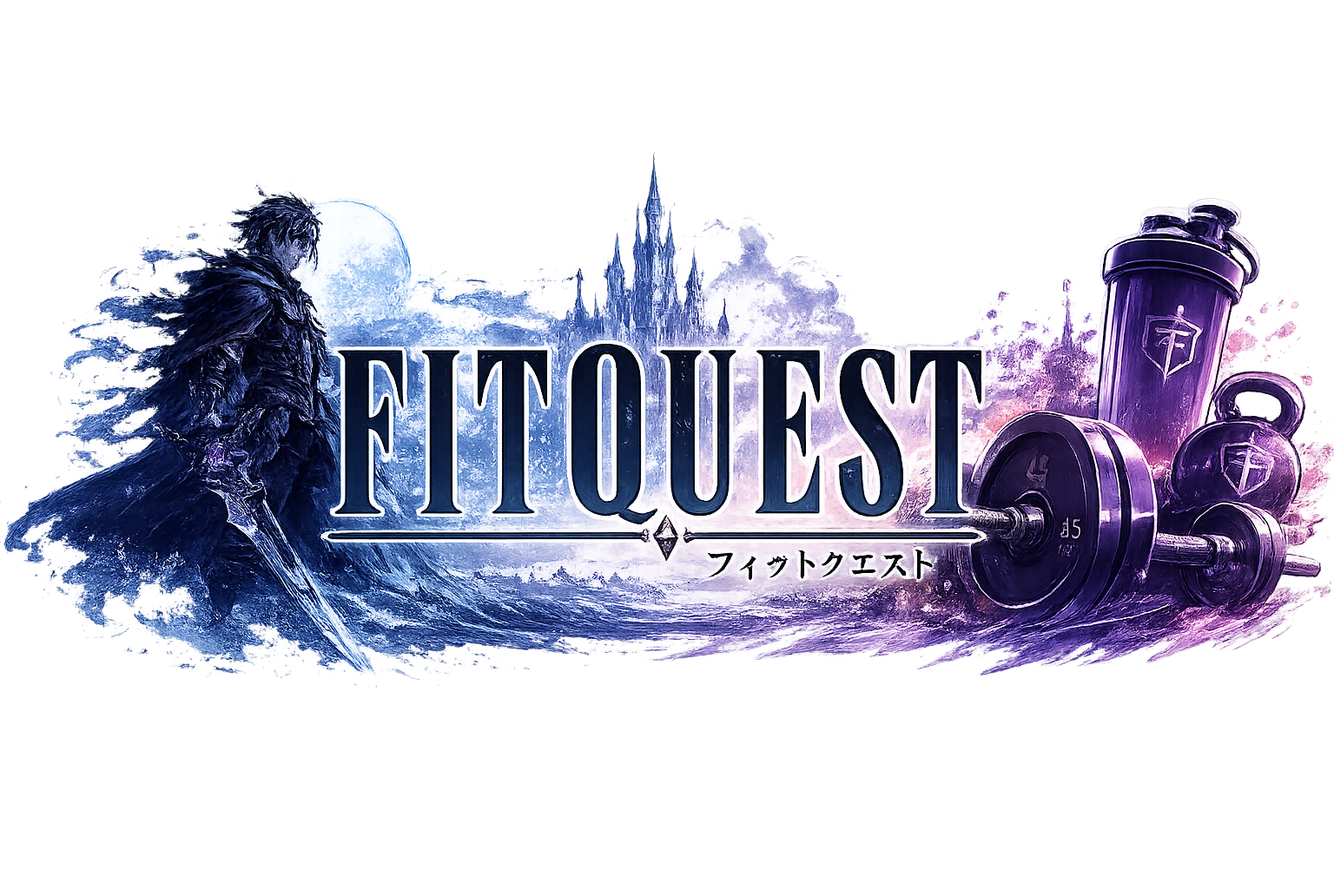
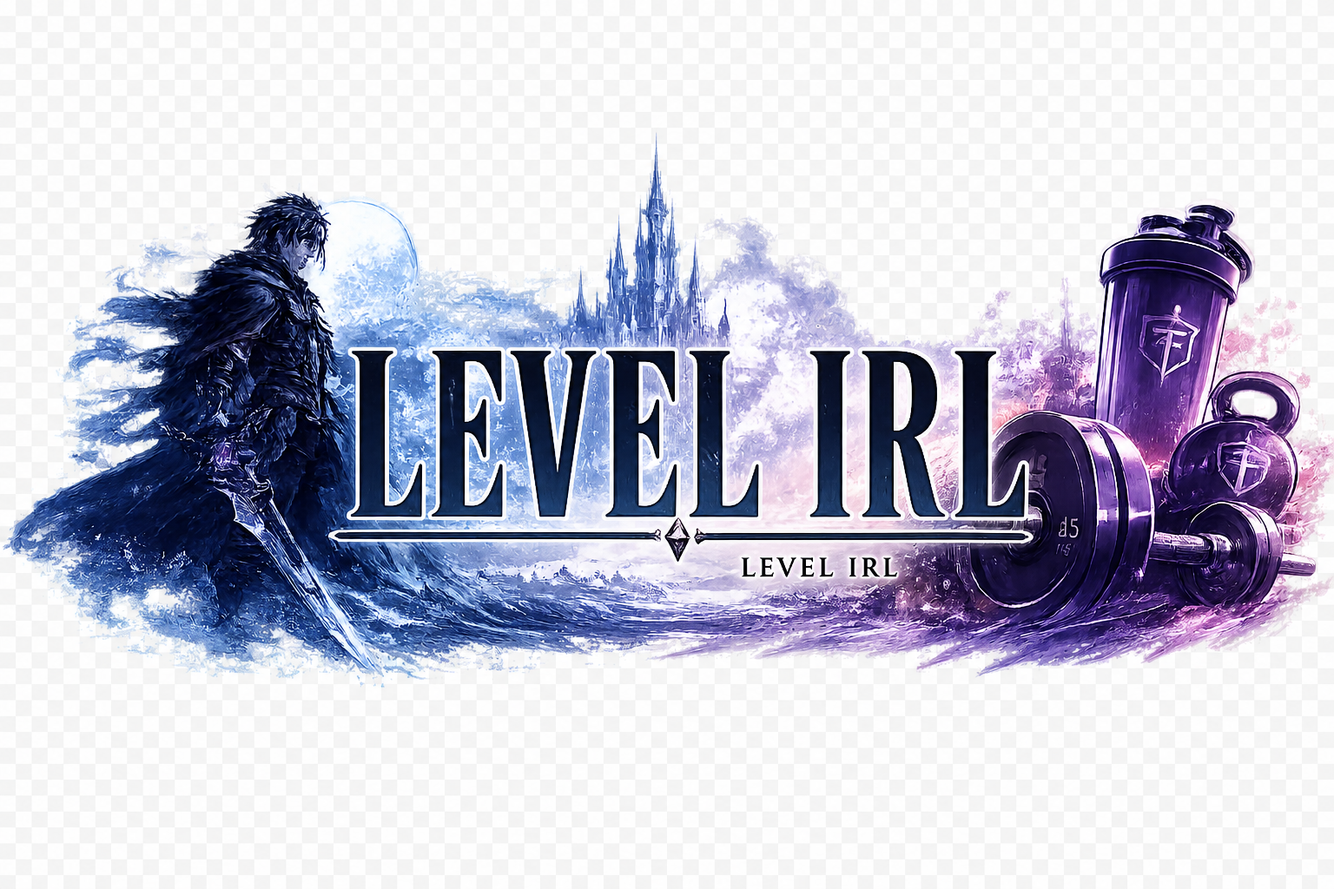
Rename FitQuest to LEVEL IRL

Changed region(s): [[0.0, 0.1875, 1.0, 0.7812]]

diff --git a/src/account.js b/src/account.js
@@ -12,16 +12,16 @@ function styles(){if($('#fitquestAccountStyles'))return;const s=document.createE
 function toolbar(){const a=$('.header-actions');if(!a)return;if(!$('#fitquestSyncChip')){const c=document.createElement('button');c.id='fitquestSyncChip';c.type='button';c.className='sync-chip';c.textContent='☁ Cloud';a.insertBefore(c,$('#logoutBtn')||$('#levelChip')||null);}if(!$('#accountBtn')){const b=document.createElement('button');b.id='accountBtn';b.type='button';b.className='account-toolbar-button';b.textContent='👤 Account';a.insertBefore(b,$('#logoutBtn')||$('#levelChip')||null);b.addEventListener('click',openAccount);}}
 function forgot(){if($('#forgotPasswordBtn')||!$('#loginForm'))return;const b=document.createElement('button');b.id='forgotPasswordBtn';b.type='button';b.className='forgot-link';b.textContent='Forgot password?';const submit=$('#loginForm .auth-submit');submit?submit.insertAdjacentElement('afterend',b):$('#loginForm').appendChild(b);b.addEventListener('click',requestReset);}
 
-function dialogs(){if(!$('#accountDialog')){const d=document.createElement('dialog');d.id='accountDialog';d.innerHTML=`<div class="account-dialog-body"><div class="account-dialog-head"><div><p class="eyebrow">PLAYER ACCOUNT · CLOUD IDENTITY</p><h3>Account & Security</h3></div><button type="button" class="icon-btn" id="accountCloseBtn">×</button></div><section class="account-section"><h4>Profile</h4><div><div class="account-email" id="accountEmail">—</div><div class="account-row" style="margin-top:8px"><span class="account-badge" id="verificationBadge">Email status</span><button class="ghost mini" id="sendVerificationBtn" type="button">Send verification email</button></div></div><label>Display name<input id="accountDisplayName" maxlength="60" placeholder="Your adventurer name"></label><button class="primary compact" id="saveAccountProfileBtn" type="button">Save Account Profile</button><p class="account-message" id="accountProfileMessage"></p></section><section class="account-section"><h4>Change Password</h4><label>Current password<input id="accountCurrentPassword" type="password" autocomplete="current-password"></label><label>New password<input id="accountNewPassword" type="password" minlength="10" autocomplete="new-password" placeholder="At least 10 characters"></label><button class="ghost" id="changeAccountPasswordBtn" type="button">Change Password</button><p class="account-message" id="accountPasswordMessage"></p></section><section class="account-section danger-account"><h4>Delete Account</h4><p class="account-message">Permanently removes the account and its FitQuest cloud save.</p><button class="ghost" id="deleteAccountBtn" type="button">Delete My Account</button></section></div>`;document.body.appendChild(d);$('#accountCloseBtn').onclick=()=>d.close();d.addEventListener('click',e=>{if(e.target===d)d.close();});$('#saveAccountProfileBtn').onclick=saveProfile;$('#sendVerificationBtn').onclick=verifyEmail;$('#changeAccountPasswordBtn').onclick=changePassword;$('#deleteAccountBtn').onclick=deleteAccount;}
+function dialogs(){if(!$('#accountDialog')){const d=document.createElement('dialog');d.id='accountDialog';d.innerHTML=`<div class="account-dialog-body"><div class="account-dialog-head"><div><p class="eyebrow">PLAYER ACCOUNT · CLOUD IDENTITY</p><h3>Account & Security</h3></div><button type="button" class="icon-btn" id="accountCloseBtn">×</button></div><section class="account-section"><h4>Profile</h4><div><div class="account-email" id="accountEmail">—</div><div class="account-row" style="margin-top:8px"><span class="account-badge" id="verificationBadge">Email status</span><button class="ghost mini" id="sendVerificationBtn" type="button">Send verification email</button></div></div><label>Display name<input id="accountDisplayName" maxlength="60" placeholder="Your adventurer name"></label><button class="primary compact" id="saveAccountProfileBtn" type="button">Save Account Profile</button><p class="account-message" id="accountProfileMessage"></p></section><section class="account-section"><h4>Change Password</h4><label>Current password<input id="accountCurrentPassword" type="password" autocomplete="current-password"></label><label>New password<input id="accountNewPassword" type="password" minlength="10" autocomplete="new-password" placeholder="At least 10 characters"></label><button class="ghost" id="changeAccountPasswordBtn" type="button">Change Password</button><p class="account-message" id="accountPasswordMessage"></p></section><section class="account-section danger-account"><h4>Delete Account</h4><p class="account-message">Permanently removes the account and its LEVEL IRL cloud save.</p><button class="ghost" id="deleteAccountBtn" type="button">Delete My Account</button></section></div>`;document.body.appendChild(d);$('#accountCloseBtn').onclick=()=>d.close();d.addEventListener('click',e=>{if(e.target===d)d.close();});$('#saveAccountProfileBtn').onclick=saveProfile;$('#sendVerificationBtn').onclick=verifyEmail;$('#changeAccountPasswordBtn').onclick=changePassword;$('#deleteAccountBtn').onclick=deleteAccount;}
 if(!$('#resetPasswordDialog')){const d=document.createElement('dialog');d.id='resetPasswordDialog';d.innerHTML=`<div class="account-dialog-body"><div class="account-dialog-head"><div><p class="eyebrow">ACCOUNT RECOVERY</p><h3>Choose a New Password</h3></div><button type="button" class="icon-btn" id="resetCloseBtn">×</button></div><section class="account-section"><label>New password<input id="resetNewPassword" type="password" minlength="10" autocomplete="new-password" placeholder="At least 10 characters"></label><button class="primary compact" id="finishResetBtn" type="button">Reset Password</button><p class="account-message" id="resetPasswordMessage"></p></section></div>`;document.body.appendChild(d);$('#resetCloseBtn').onclick=()=>d.close();$('#finishResetBtn').onclick=finishReset;}}
 
 async function openAccount(){const d=$('#accountDialog');d.showModal();msg('#accountProfileMessage','Loading account…');try{const r=await api('/api/account');const a=r.account;$('#accountEmail').textContent=a.email;$('#accountDisplayName').value=a.display_name||'';const v=!!a.email_verified_at,b=$('#verificationBadge');b.textContent=v?'✓ Email verified':'Email not verified';b.classList.toggle('verified',v);$('#sendVerificationBtn').hidden=v;msg('#accountProfileMessage',v?'Account is connected to your cloud save.':'Verify your email to strengthen account recovery.');}catch(e){msg('#accountProfileMessage',e.message,'error');}}
 async function saveProfile(){msg('#accountProfileMessage','Saving…');try{await api('/api/account',{method:'PUT',body:JSON.stringify({display_name:$('#accountDisplayName').value.trim()})});msg('#accountProfileMessage','Account profile saved.','success');}catch(e){msg('#accountProfileMessage',e.message,'error');}}
 async function verifyEmail(){const b=$('#sendVerificationBtn');b.disabled=true;msg('#accountProfileMessage','Sending verification email…');try{const r=await api('/api/auth/verification/request',{method:'POST'});if(r.already_verified){b.hidden=true;msg('#accountProfileMessage','Email is already verified.','success');}else if(r.delivered)msg('#accountProfileMessage','Verification email sent. Check your inbox.','success');else msg('#accountProfileMessage',r.delivery_error||'Email delivery is not configured yet.','error');}catch(e){msg('#accountProfileMessage',e.message,'error');}finally{b.disabled=false;}}
 async function changePassword(){msg('#accountPasswordMessage','Updating password…');try{await api('/api/account/password',{method:'POST',body:JSON.stringify({current_password:$('#accountCurrentPassword').value,new_password:$('#accountNewPassword').value})});$('#accountCurrentPassword').value='';$('#accountNewPassword').value='';msg('#accountPasswordMessage','Password changed. Your current device remains signed in.','success');}catch(e){msg('#accountPasswordMessage',e.message,'error');}}
-async function deleteAccount(){if(!confirm('Permanently delete this FitQuest account and its cloud save? This cannot be undone.'))return;if(prompt('Type DELETE to confirm.')!=='DELETE')return;try{await api('/api/account',{method:'DELETE'});location.reload();}catch(e){alert(e.message);}}
-async function requestReset(){let email=$('#loginEmail')?.value?.trim()||'';if(!email)email=(prompt('Enter the email address for your FitQuest account:')||'').trim();if(!email)return;const b=$('#forgotPasswordBtn'),old=b.textContent;b.disabled=true;b.textContent='Sending…';try{const r=await api('/api/auth/password/forgot',{method:'POST',body:JSON.stringify({email})});alert(r.delivered===false?(r.delivery_error||r.message):r.message);}catch(e){alert(e.message);}finally{b.disabled=false;b.textContent=old;}}
-async function confirmVerify(token){try{await api('/api/auth/verification/confirm',{method:'POST',body:JSON.stringify({token})});alert('Your FitQuest email is verified.');}catch(e){alert(e.message);}const u=new URL(location.href);u.searchParams.delete('verify');history.replaceState({},'',u);}
+async function deleteAccount(){if(!confirm('Permanently delete this LEVEL IRL account and its cloud save? This cannot be undone.'))return;if(prompt('Type DELETE to confirm.')!=='DELETE')return;try{await api('/api/account',{method:'DELETE'});location.reload();}catch(e){alert(e.message);}}
+async function requestReset(){let email=$('#loginEmail')?.value?.trim()||'';if(!email)email=(prompt('Enter the email address for your LEVEL IRL account:')||'').trim();if(!email)return;const b=$('#forgotPasswordBtn'),old=b.textContent;b.disabled=true;b.textContent='Sending…';try{const r=await api('/api/auth/password/forgot',{method:'POST',body:JSON.stringify({email})});alert(r.delivered===false?(r.delivery_error||r.message):r.message);}catch(e){alert(e.message);}finally{b.disabled=false;b.textContent=old;}}
+async function confirmVerify(token){try{await api('/api/auth/verification/confirm',{method:'POST',body:JSON.stringify({token})});alert('Your LEVEL IRL email is verified.');}catch(e){alert(e.message);}const u=new URL(location.href);u.searchParams.delete('verify');history.replaceState({},'',u);}
 async function finishReset(){const token=new URL(location.href).searchParams.get('reset');msg('#resetPasswordMessage','Resetting password…');try{await api('/api/auth/password/reset',{method:'POST',body:JSON.stringify({token,new_password:$('#resetNewPassword').value})});msg('#resetPasswordMessage','Password reset. You can sign in with the new password.','success');const u=new URL(location.href);u.searchParams.delete('reset');history.replaceState({},'',u);setTimeout(()=>location.reload(),1200);}catch(e){msg('#resetPasswordMessage',e.message,'error');}}
 
 function syncUI(e){const c=$('#fitquestSyncChip');if(!c)return;const s=e.detail?.status,map={saving:['☁ Saving…','saving'],loading:['☁ Loading…','loading'],synced:['☁ Synced','synced'],error:['☁ Sync error','error'],'signed-out':['Signed out','idle']};if(map[s]){c.textContent=map[s][0];c.dataset.state=map[s][1];c.onclick=null;}}

diff --git a/src/history.js b/src/history.js
@@ -23,7 +23,7 @@ function installUI(){
     <p class="muted history-help">Every set, rep, weight and cardio session is saved here. Move records between dates or download a recovery backup anytime.</p>
     <div id="historyList" class="history-list"><div class="empty-state">Loading cloud history…</div></div>`;
   chronicle.parentNode.insertBefore(section,chronicle);
-  const dialog=document.createElement('dialog');dialog.id='moveExerciseDialog';dialog.innerHTML=`<form id="moveExerciseForm"><div class="dialog-head"><div><p class="eyebrow">FIELD TRANSFER</p><h3>Move Exercise</h3></div><button type="button" class="icon-btn" id="moveExerciseClose" aria-label="Close">×</button></div><p class="muted" id="moveExerciseLabel"></p><input type="hidden" id="moveSourceWorkoutId"><input type="hidden" id="moveExerciseIndex"><label>Move to date<input id="moveExerciseDate" type="date" required></label><button class="primary" type="submit">Transfer Exercise</button><p class="dialog-tip">If that date has no adventure yet, FitQuest creates one automatically.</p></form>`;document.body.appendChild(dialog);
+  const dialog=document.createElement('dialog');dialog.id='moveExerciseDialog';dialog.innerHTML=`<form id="moveExerciseForm"><div class="dialog-head"><div><p class="eyebrow">FIELD TRANSFER</p><h3>Move Exercise</h3></div><button type="button" class="icon-btn" id="moveExerciseClose" aria-label="Close">×</button></div><p class="muted" id="moveExerciseLabel"></p><input type="hidden" id="moveSourceWorkoutId"><input type="hidden" id="moveExerciseIndex"><label>Move to date<input id="moveExerciseDate" type="date" required></label><button class="primary" type="submit">Transfer Exercise</button><p class="dialog-tip">If that date has no adventure yet, LEVEL IRL creates one automatically.</p></form>`;document.body.appendChild(dialog);
   document.getElementById('moveExerciseClose').addEventListener('click',()=>dialog.close());dialog.addEventListener('click',e=>{if(e.target===dialog)dialog.close();});document.getElementById('moveExerciseForm').addEventListener('submit',moveExercise);document.getElementById('historyBackupBtn').addEventListener('click',exportBackup);void renderHistory();
 }
 
@@ -39,6 +39,6 @@ async function changeWorkoutDate(id){const data=await load(),source=(data?.worko
 async function openMoveExercise(id,index){const data=await load(),w=(data?.workouts||[]).find(x=>x.id===id),e=w?.exercises?.[index];if(!w||!e)return;document.getElementById('moveSourceWorkoutId').value=id;document.getElementById('moveExerciseIndex').value=String(index);document.getElementById('moveExerciseDate').value=w.date||localDateISO();document.getElementById('moveExerciseLabel').textContent=`${e.name} · currently ${w.date}`;document.getElementById('moveExerciseDialog').showModal();}
 async function moveExercise(ev){ev.preventDefault();const data=await load(),id=document.getElementById('moveSourceWorkoutId').value,index=Number(document.getElementById('moveExerciseIndex').value),targetDate=document.getElementById('moveExerciseDate').value,source=(data?.workouts||[]).find(w=>w.id===id);if(!source||!targetDate||!source.exercises?.[index])return;if(targetDate===source.date){toast('📅 That exercise is already on that date.');return;}const [exercise]=source.exercises.splice(index,1),target=ensureTargetWorkout(data,targetDate);target.exercises||=[];target.exercises.push({...exercise,movedFromDate:source.date,movedAt:new Date().toISOString()});sortWorkouts(data);await save(data);document.getElementById('moveExerciseDialog').close();toast(`↪ ${exercise.name} moved to ${targetDate}.`);setTimeout(()=>location.reload(),350);}
 async function deleteEmptyWorkout(id){const data=await load(),w=(data?.workouts||[]).find(x=>x.id===id);if(!w||(w.exercises||[]).length)return;data.workouts=data.workouts.filter(x=>x.id!==id);await save(data);toast('🧹 Empty adventure record removed.');setTimeout(()=>location.reload(),350);}
-async function exportBackup(){const data=await load();if(!data){toast('No FitQuest cloud save found to back up.');return;}const blob=new Blob([JSON.stringify(data,null,2)],{type:'application/json'}),url=URL.createObjectURL(blob),a=document.createElement('a');a.href=url;a.download=`fitquest-backup-${localDateISO()}.json`;document.body.appendChild(a);a.click();a.remove();setTimeout(()=>URL.revokeObjectURL(url),1000);toast('⬇ FitQuest cloud backup exported.');}
+async function exportBackup(){const data=await load();if(!data){toast('No LEVEL IRL cloud save found to back up.');return;}const blob=new Blob([JSON.stringify(data,null,2)],{type:'application/json'}),url=URL.createObjectURL(blob),a=document.createElement('a');a.href=url;a.download=`level-irl-backup-${localDateISO()}.json`;document.body.appendChild(a);a.click();a.remove();setTimeout(()=>URL.revokeObjectURL(url),1000);toast('⬇ LEVEL IRL cloud backup exported.');}
 
 if(document.readyState==='loading')document.addEventListener('DOMContentLoaded',installUI,{once:true});else installUI();

diff --git a/index.html b/index.html
@@ -10,8 +10,17 @@
 
   <meta name="theme-color" content="#0b1020" />
   <meta name="apple-mobile-web-app-capable" content="yes" />
+  <meta name="apple-mobile-web-app-title" content="LEVEL IRL" />
+  <meta name="application-name" content="LEVEL IRL" />
+  <meta name="description" content="LEVEL IRL is a mobile-first fitness RPG for workouts, progression, achievements, and healthy habits." />
+  <meta property="og:title" content="LEVEL IRL — Your Fitness RPG" />
+  <meta property="og:description" content="Turn real-world fitness into RPG progression with LEVEL IRL." />
+  <meta property="og:type" content="website" />
+  <meta name="twitter:card" content="summary" />
+  <meta name="twitter:title" content="LEVEL IRL — Your Fitness RPG" />
+  <meta name="twitter:description" content="Turn real-world fitness into RPG progression with LEVEL IRL." />
 
-  <title>FitQuest — Your Fitness RPG</title>
+  <title>LEVEL IRL — Your Fitness RPG</title>
 
   <style>
     [hidden] {
@@ -257,7 +266,7 @@
 
         <p class="eyebrow">FITNESS RPG · CAMPAIGN I</p>
 
-        <h1>FitQuest</h1>
+        <h1>LEVEL IRL</h1>
 
         <p>
           Your training is the campaign.
@@ -295,7 +304,7 @@
           <h2>Welcome Back</h2>
 
           <p>
-            Continue your FitQuest campaign.
+            Continue your LEVEL IRL campaign.
           </p>
 
           <form id="loginForm" class="auth-form">
@@ -325,7 +334,7 @@
             </label>
 
             <button class="auth-submit" type="submit">
-              Enter FitQuest
+              Enter LEVEL IRL
             </button>
 
             <p
@@ -350,7 +359,7 @@
           <h2>Begin Your Campaign</h2>
 
           <p>
-            Create your account and keep your FitQuest progress
+            Create your account and keep your LEVEL IRL progress
             securely in the cloud.
           </p>
 
@@ -396,7 +405,7 @@
         </section>
 
         <p class="auth-footer">
-          Your FitQuest data will be tied to your account
+          Your LEVEL IRL data will be tied to your account
           instead of only this browser.
         </p>
 
@@ -406,7 +415,7 @@
 
 
   <!-- =========================================================
-       MAIN FITQUEST APPLICATION
+       MAIN LEVEL IRL APPLICATION
        ========================================================= -->
 
   <div id="appRoot" hidden>
@@ -425,7 +434,7 @@
           </p>
 
           <h1>
-            FitQuest
+            LEVEL IRL
             <span class="beta">v0.5 · Vite</span>
           </h1>
 
@@ -1897,7 +1906,7 @@
           );
         } else {
           setVerificationBanner(
-            'Verify your email to strengthen account recovery and confirm ownership of this FitQuest account.'
+            'Verify your email to strengthen account recovery and confirm ownership of this LEVEL IRL account.'
           );
         }
 
@@ -2148,7 +2157,7 @@
             'auth-message error';
 
           signupMessage.textContent =
-            'Unable to reach FitQuest. Try again.';
+            'Unable to reach LEVEL IRL. Try again.';
         }
       }
     );
@@ -2248,7 +2257,7 @@
             'auth-message error';
 
           loginMessage.textContent =
-            'Unable to reach FitQuest. Try again.';
+            'Unable to reach LEVEL IRL. Try again.';
         }
       }
     );
@@ -2335,7 +2344,7 @@
           logoutBtn.textContent = 'Sign Out';
 
           alert(
-            'FitQuest could not sign you out. Please try again.'
+            'LEVEL IRL could not sign you out. Please try again.'
           );
         }
       }
@@ -2375,7 +2384,7 @@
 
 
   <!-- =========================================================
-       FITQUEST APPLICATION SCRIPTS
+       LEVEL IRL APPLICATION SCRIPTS
        ========================================================= -->
 
   <script

diff --git a/src/rpgExpansion.js b/src/rpgExpansion.js
@@ -18,5 +18,5 @@ async function render(){ const data=await read();if(!data)return; const date=loc
  const home=$('#fitquestScreenGrid-home'); if(home){let q=$('#fqQuestBoard');if(!q){q=document.createElement('section');q.id='fqQuestBoard';q.className='fq-rpg-card';home.appendChild(q);}q.innerHTML=`<div class="fq-rpg-head"><div><p>DAILY QUEST BOARD</p><h3>Choose Your Side Quests</h3></div><span class="fq-rpg-chip">Optional</span></div><div class="fq-quest-grid">${board.quests.map(x=>`<div class="fq-quest"><span>${x.icon}</span><div><strong>${x.name}</strong><div style="font-size:10px;color:#8995ad">${x.current||0} / ${x.target} ${x.unit}</div></div><button data-fq-quest="${x.id}">${x.completed?'✓ Done':x.selected?'Selected':'Select'}</button></div>`).join('')}</div>`;q.querySelectorAll('[data-fq-quest]').forEach(b=>b.onclick=async()=>{await mutate(d=>{selectQuest(d,b.dataset.fqQuest,date);updateQuestBoard(d,date);return true;});render();}); }
  const enc=(r.encounters||[]).filter(e=>e.date===date&&e.status==='available').at(-1); if(enc&&home){let e=$('#fqEncounter');if(!e){e=document.createElement('section');e.id='fqEncounter';e.className='fq-rpg-card';home.appendChild(e);}e.innerHTML=`<div class="fq-rpg-head"><div><p>RANDOM ENCOUNTER</p><h3>${enc.icon} ${enc.name}</h3></div><span class="fq-rpg-chip">OPTIONAL</span></div><div class="fq-encounter">${enc.challenge}<div style="margin-top:10px"><button id="fqEncounterDone">Complete</button> <button id="fqEncounterSkip">Skip</button></div></div>`;$('#fqEncounterDone').onclick=()=>resolveEncounter(enc.id,true);$('#fqEncounterSkip').onclick=()=>resolveEncounter(enc.id,false);} }
 async function resolveEncounter(id,complete){await mutate(data=>{const r=ensureRpg(data),e=(r.encounters||[]).find(x=>x.id===id);if(!e||e.status!=='available')return false;e.status=complete?'completed':'skipped';e.resolvedAt=new Date().toISOString();if(complete)grantLoot(data,{lootId:'iron-flask',source:e.name,eventId:`loot:${e.id}`});return true;});toast(complete?'Encounter Cleared':'Encounter Skipped',complete?'Loot added to your Character inventory.':'No penalty. The road continues.',complete?'⚔':'↪');render();}
-function boot(){styles();setTimeout(()=>render().catch(()=>{}),1200); const hooks=['adventure-ended','boss-hit','daily-activity-saved','checkin-saved','nutrition-updated','remote-update'];hooks.forEach(name=>window.addEventListener(`fitquest:${name}`,e=>process(name,e.detail?.id||`${name}:${Date.now()}`)));window.addEventListener('fitquest:navigation',()=>render().catch(()=>{}));window.addEventListener('fitquest:rpg-toast',e=>toast(e.detail?.title||'FitQuest',e.detail?.body||'',e.detail?.icon||'✨'));}
+function boot(){styles();setTimeout(()=>render().catch(()=>{}),1200); const hooks=['adventure-ended','boss-hit','daily-activity-saved','checkin-saved','nutrition-updated','remote-update'];hooks.forEach(name=>window.addEventListener(`fitquest:${name}`,e=>process(name,e.detail?.id||`${name}:${Date.now()}`)));window.addEventListener('fitquest:navigation',()=>render().catch(()=>{}));window.addEventListener('fitquest:rpg-toast',e=>toast(e.detail?.title||'LEVEL IRL',e.detail?.body||'',e.detail?.icon||'✨'));}
 if(document.readyState==='loading')document.addEventListener('DOMContentLoaded',boot,{once:true});else boot();

diff --git a/src/worker.js b/src/worker.js
@@ -220,7 +220,7 @@ export default {
         if (account?.email_verified_at) return json({ ok: true, already_verified: true });
         const token = await createAuthToken(env, user.id, 'verify_email', VERIFY_TOKEN_MINUTES);
         const verifyUrl = `${url.origin}/?verify=${encodeURIComponent(token)}`;
-        const delivery = await sendEmail(env, { to: user.email, subject: 'Verify your FitQuest email', html: authEmailHtml({ heading: 'Verify your FitQuest email', body: 'Confirm this email address for your FitQuest account. This link expires in 24 hours.', buttonText: 'Verify Email', url: verifyUrl }) });
+        const delivery = await sendEmail(env, { to: user.email, subject: 'Verify your LEVEL IRL email', html: authEmailHtml({ heading: 'Verify your LEVEL IRL email', body: 'Confirm this email address for your LEVEL IRL account. This link expires in 24 hours.', buttonText: 'Verify Email', url: verifyUrl }) });
         return json({ ok: true, delivered: delivery.sent, delivery_error: delivery.sent ? null : delivery.reason });
       } catch (error) { return json({ ok: false, error: error.message || String(error) }, 500); }
     }
@@ -245,14 +245,14 @@ export default {
         if (user) {
           const token = await createAuthToken(env, user.id, 'reset_password', RESET_TOKEN_MINUTES);
           const resetUrl = `${url.origin}/?reset=${encodeURIComponent(token)}`;
-          const delivery = await sendEmail(env, { to: user.email, subject: 'Reset your FitQuest password', html: authEmailHtml({ heading: 'Reset your FitQuest password', body: 'Use this secure link to choose a new password. This link expires in 60 minutes.', buttonText: 'Reset Password', url: resetUrl }) });
+          const delivery = await sendEmail(env, { to: user.email, subject: 'Reset your LEVEL IRL password', html: authEmailHtml({ heading: 'Reset your LEVEL IRL password', body: 'Use this secure link to choose a new password. This link expires in 60 minutes.', buttonText: 'Reset Password', url: resetUrl }) });
           delivered = delivery.sent;
           deliveryError = delivery.sent ? null : delivery.reason;
         }
-        return json({ ok: true, message: 'If that email belongs to a FitQuest account, a reset link will be sent.', delivered, delivery_error: deliveryError });
+        return json({ ok: true, message: 'If that email belongs to a LEVEL IRL account, a reset link will be sent.', delivered, delivery_error: deliveryError });
       } catch (error) {
         console.error('Forgot password error:', error);
-        return json({ ok: true, message: 'If that email belongs to a FitQuest account, a reset link will be sent.' });
+        return json({ ok: true, message: 'If that email belongs to a LEVEL IRL account, a reset link will be sent.' });
       }
     }
 

diff --git a/src/rpgCore.js b/src/rpgCore.js
@@ -17,7 +17,7 @@ export function dayMetrics(data,date=localDateISO()){
   return {date,workout:w,checkIn:c,meals,strengthSets,cardioMinutes,steps:num(c?.steps),activeCalories:num(c?.activeCalories),exerciseMinutes:num(c?.exerciseMinutes),standHours:num(c?.standHours),waterOz:num(c?.waterOz)+hydrationFromMeals,sleepHours:num(c?.sleepHours),weight:c?.weight??null,nutritionLogged:meals.length>0,workoutLogged:ex.length>0,activityLogged:Boolean(c&&(num(c.steps)||num(c.activeCalories)||num(c.exerciseMinutes)||num(c.standHours))),checkInLogged:Boolean(c)};
 }
 export function dispatch(name,detail={}){ window.dispatchEvent(new CustomEvent(`fitquest:${name}`,{detail})); }
-export async function mutate(mutator){ const cloud=await readCloudSave(); const data=cloud?.save; if(!data) return null; ensureRpg(data); const changed=await mutator(data); if(changed===false) return data; if(!(await writeSave(data))) throw new Error('FitQuest could not save RPG expansion data.'); dispatch('rpg-updated'); return data; }
+export async function mutate(mutator){ const cloud=await readCloudSave(); const data=cloud?.save; if(!data) return null; ensureRpg(data); const changed=await mutator(data); if(changed===false) return data; if(!(await writeSave(data))) throw new Error('LEVEL IRL could not save RPG expansion data.'); dispatch('rpg-updated'); return data; }
 export async function read(){ const cloud=await readCloudSave(); return cloud?.save||null; }
 export function stats(data){ return calculateStats(data); }
 export function addOnce(list,item,key='id'){ if(list.some(x=>x?.[key]===item?.[key])) return false; list.push(item); return true; }

diff --git a/src/dailyActivity.js b/src/dailyActivity.js
@@ -421,7 +421,7 @@ function install() {
 
     <div class="fitquest-watch-note">
       ⌚ Enter the totals shown by Apple Watch / Fitness at the end of the day.
-      FitQuest stores them in the same dated cloud check-in used by your recovery data,
+      LEVEL IRL stores them in the same dated cloud check-in used by your recovery data,
       so they follow your account across devices.
     </div>
   `;
@@ -546,7 +546,7 @@ async function save() {
 
   if (message) {
     message.className = 'fitquest-activity-message';
-    message.textContent = 'Saving to your FitQuest cloud campaign…';
+    message.textContent = 'Saving to your LEVEL IRL cloud campaign…';
   }
 
   try {
@@ -554,7 +554,7 @@ async function save() {
     const data = cloud?.save;
 
     if (!data) {
-      throw new Error('No FitQuest cloud save is available.');
+      throw new Error('No LEVEL IRL cloud save is available.');
     }
 
     const today = localDateISO();

diff --git a/src/progressOverview.js b/src/progressOverview.js
@@ -991,7 +991,7 @@ async function refresh() {
         <div class="fitquest-overview-subcard">
           <h4>30-day consistency map</h4>
           <p>
-            Brighter days mean more of your FitQuest systems were completed and logged.
+            Brighter days mean more of your LEVEL IRL systems were completed and logged.
           </p>
 
           <div class="fitquest-heatmap">
@@ -1024,7 +1024,7 @@ async function refresh() {
         <p class="eyebrow">CAMPAIGN OVERVIEW</p>
         <h3 style="margin:6px 0">Overall Progress</h3>
         <p style="color:#8f9bb5">
-          Progress data is temporarily unavailable. Your underlying FitQuest save was not changed.
+          Progress data is temporarily unavailable. Your underlying LEVEL IRL save was not changed.
         </p>
       `;
     }

diff --git a/src/workoutCompletion.js b/src/workoutCompletion.js
@@ -267,7 +267,7 @@ async function submitStrike() {
     workout.bossStrikeRequestedAt = new Date().toISOString();
 
     const ok = await writeSave(data);
-    if (!ok) throw new Error('FitQuest could not save this strike.');
+    if (!ok) throw new Error('LEVEL IRL could not save this strike.');
 
     window.dispatchEvent(new CustomEvent('fitquest:boss-strike-requested'));
 
@@ -320,7 +320,7 @@ async function endAdventure() {
       `${exerciseCount(workout)} moves completed · +${workout.completionXp} completion XP`;
 
     const ok = await writeSave(data);
-    if (!ok) throw new Error('FitQuest could not end this Adventure.');
+    if (!ok) throw new Error('LEVEL IRL could not end this Adventure.');
 
     const newStats = calculateStats(data);
 

diff --git a/src/lib/storage.js b/src/lib/storage.js
@@ -10,7 +10,7 @@ function readLocal(key) {
     const value = localStorage.getItem(key);
     return value ? JSON.parse(value) : null;
   } catch (error) {
-    console.warn(`FitQuest could not read ${key}:`, error);
+    console.warn(`LEVEL IRL could not read ${key}:`, error);
     return null;
   }
 }
@@ -33,7 +33,7 @@ function saveLocalSnapshot(data, reason = 'autosave') {
       localStorage.setItem(BACKUP_KEY, JSON.stringify(backups.slice(0, MAX_BACKUPS)));
     }
   } catch (error) {
-    console.warn('FitQuest local recovery snapshot failed:', error);
+    console.warn('LEVEL IRL local recovery snapshot failed:', error);
   }
 }
 

diff --git a/src/bossBattle.js b/src/bossBattle.js
@@ -500,7 +500,7 @@ async function requestWorkoutStrike() {
       new Date().toISOString();
 
     const ok = await writeSave(data);
-    if (!ok) throw new Error('FitQuest could not submit this strike.');
+    if (!ok) throw new Error('LEVEL IRL could not submit this strike.');
 
     await refresh();
 
@@ -534,7 +534,7 @@ async function requestActivityStrike() {
       new Date().toISOString();
 
     const ok = await writeSave(data);
-    if (!ok) throw new Error('FitQuest could not submit this field strike.');
+    if (!ok) throw new Error('LEVEL IRL could not submit this field strike.');
 
     await refresh();
 

diff --git a/src/app.js b/src/app.js
@@ -593,7 +593,7 @@ function renderLibrary() {
         >
           <span>＋</span>
           <strong>New Move</strong>
-          <small>Teach FitQuest</small>
+          <small>Teach LEVEL IRL</small>
         </button>
       `;
 
@@ -1471,7 +1471,7 @@ function openExerciseDialog(
         ? 'Edit Exercise'
         : exercise
         ? `Log ${exercise.name}`
-        : 'Teach FitQuest a Move';
+        : 'Teach LEVEL IRL a Move';
 
   $('#exerciseEditIndex')
     .value =
